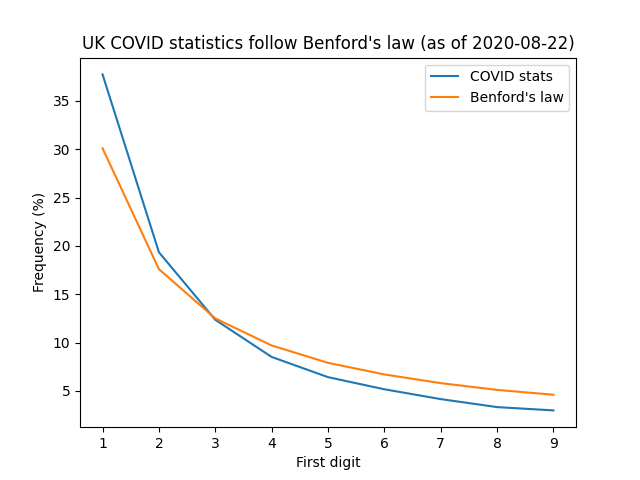
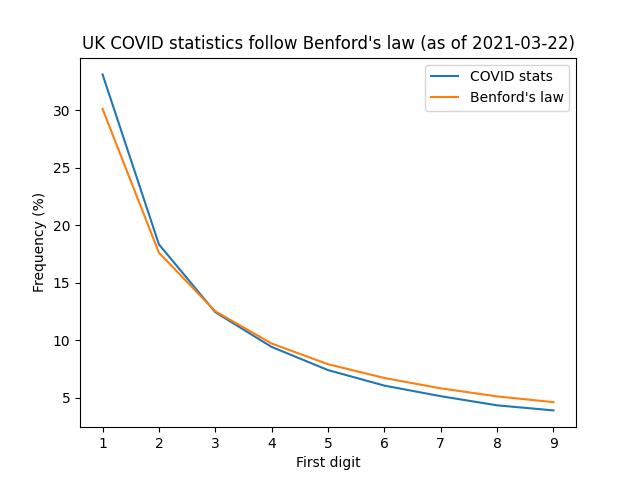
Update c19 data url (#2)

diff --git a/analysis.py b/analysis.py
@@ -9,7 +9,7 @@ buckets = [0, 0, 0, 0, 0, 0, 0, 0, 0, 0]
 if not os.path.isfile('data.csv'):
     print('Downloading data...')
     try:
-        data = requests.get('https://c19downloads.azureedge.net/downloads/csv/coronavirus-cases_latest.csv')
+        data = requests.get('https://coronavirus.data.gov.uk/downloads/csv/coronavirus-cases_latest.csv')
     except Exception as e:
         print('Failed to retrieve data:')
         print(e)
